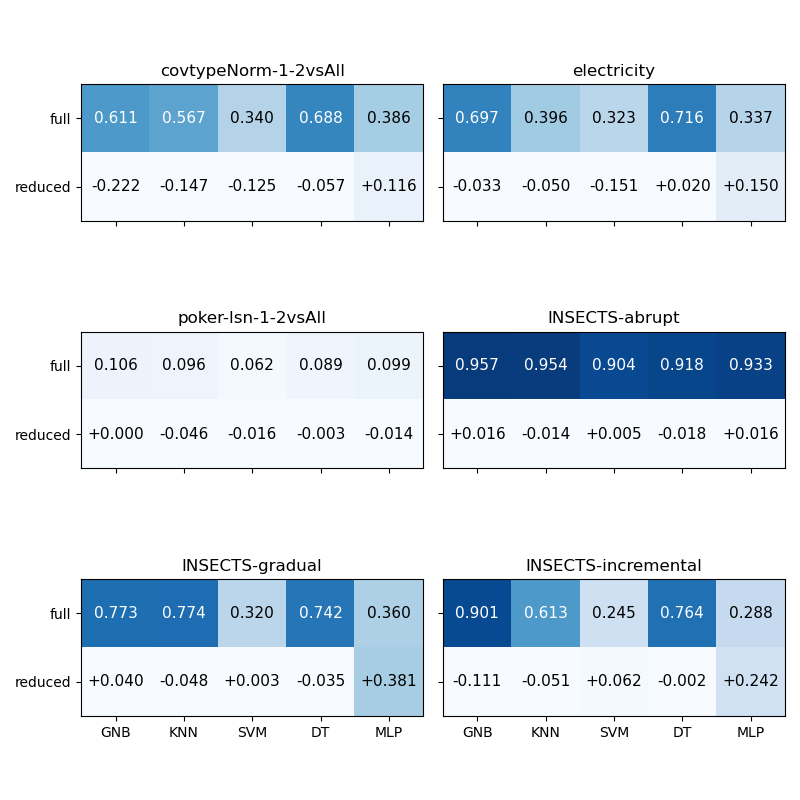
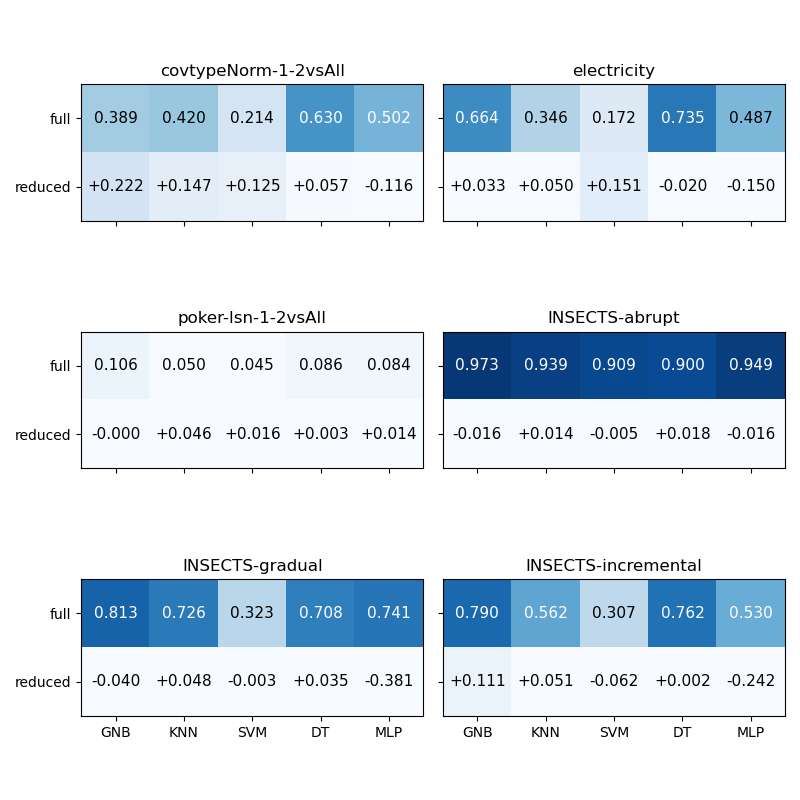
fix plots real

diff --git a/vis_selection_real.py b/vis_selection_real.py
@@ -117,8 +117,8 @@ for f_id, f in enumerate(real_streams):
     clf = np.load('res_clf_cls/clf_sel_real_%i.npy' % f_id)    
 
     img = np.zeros((2,5))
-    full = np.mean(res[f_id], axis=0)
-    reduced = np.mean(clf[-1], axis=0)
+    reduced = np.mean(res[f_id], axis=0)
+    full = np.mean(clf[-1], axis=0)
     img[0] = full
     img[1] = reduced-full
     
